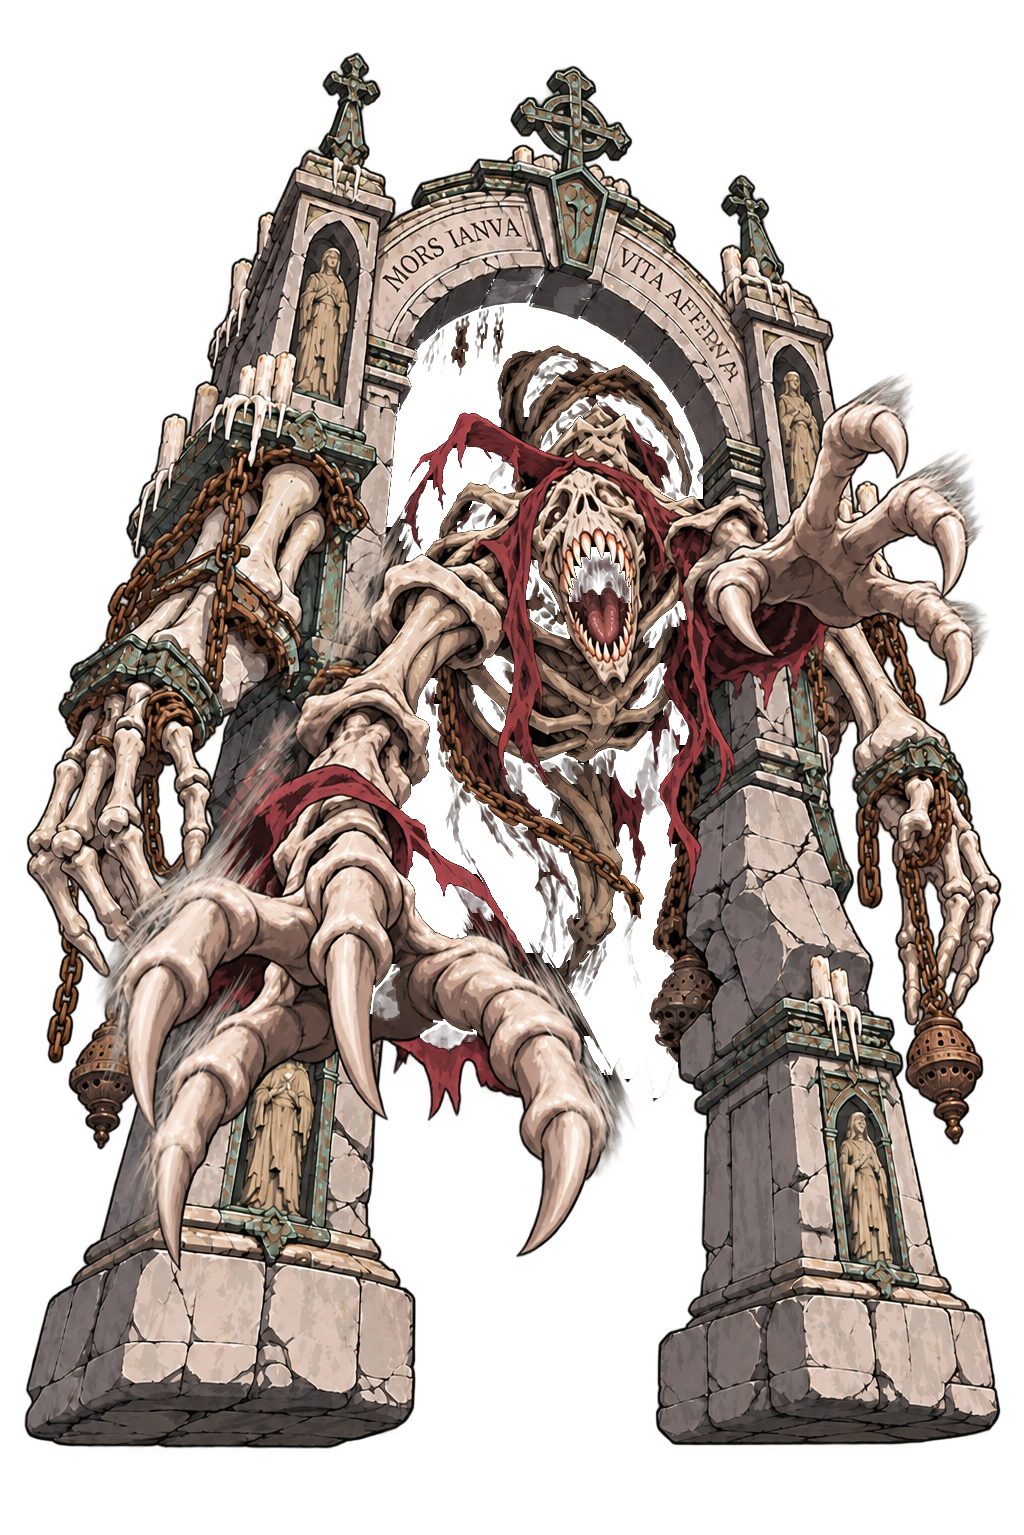
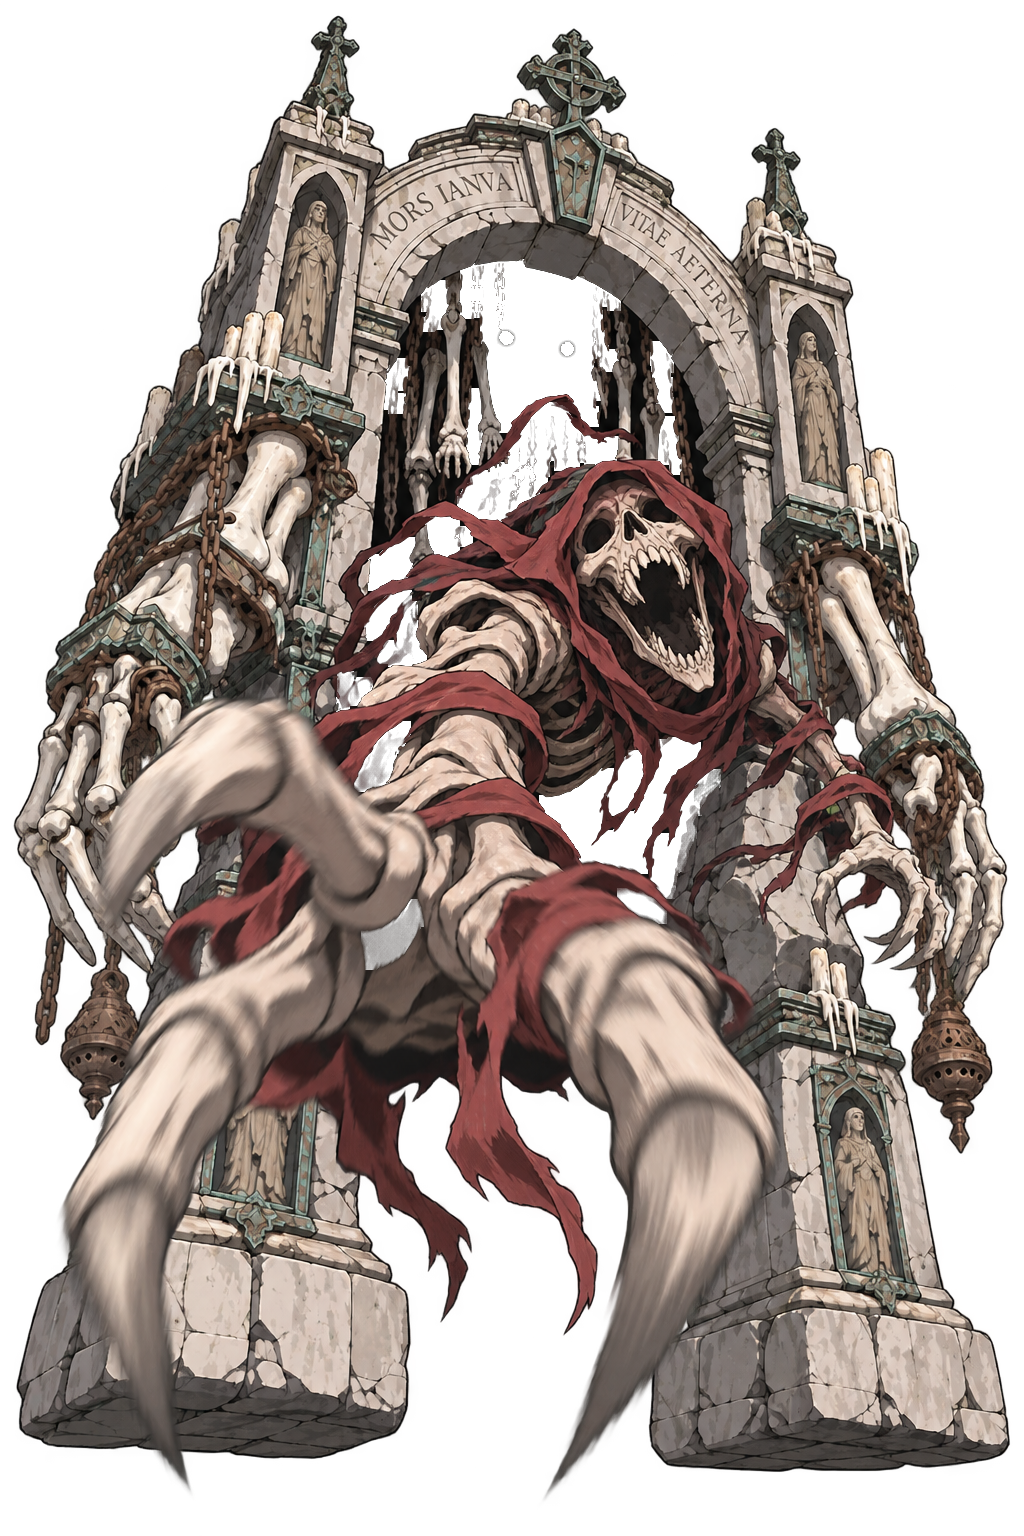
敵人：拱門守衛 B 強透視重出（拱門不動）＋拱門內挖空

diff --git a/tools/enemy_review/tomb_redo2.html b/tools/enemy_review/tomb_redo2.html
@@ -27,7 +27,7 @@ h1{font-size:18px;margin:12px 16px}
 const R='../../resources/enemy/_neutral_refs/tomb_kf/';
 const L=[
  ['grave_censer','墓香爐','11-22 晚：強透視重出，香爐砸向鏡頭（甩的 B 不夠攻擊性）'],
- ['arch_warden','拱門守衛','11-22 晚：GPT 重繪去背＋拱門內的黑色本機挖空（柔邊）'],
+ ['arch_warden','拱門守衛','11-22 晚：強透視重出（拱門照原圖不動）＋拱門內黑色本機挖空（嘴保留）'],
 ];
 const g=document.getElementById('g');
 for(const [n,t,d] of L){
